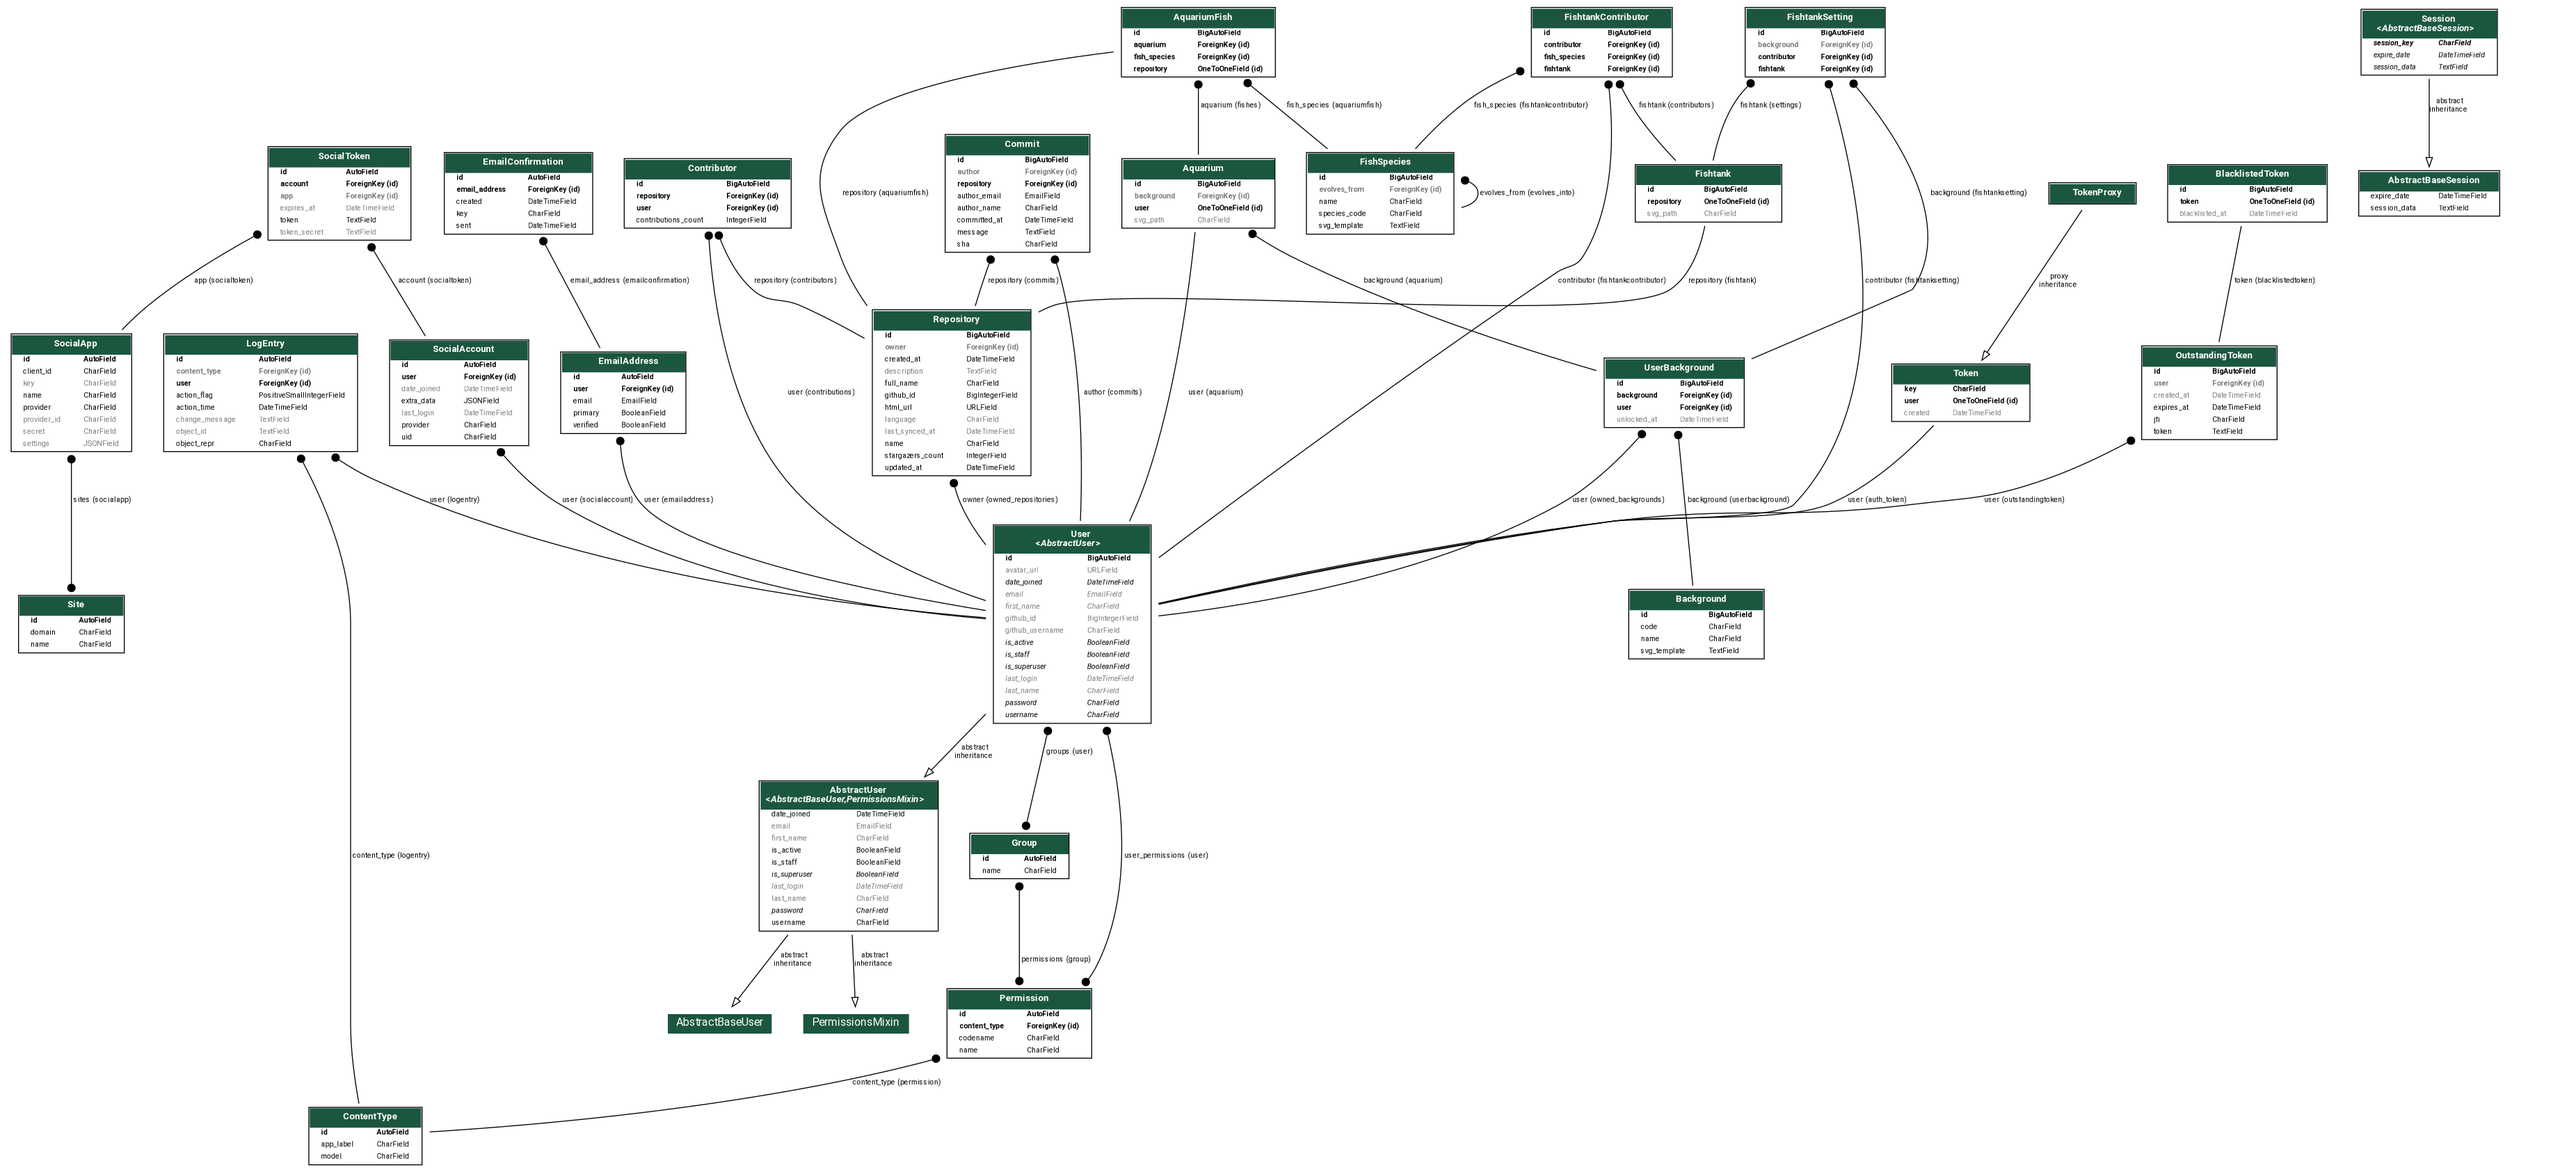
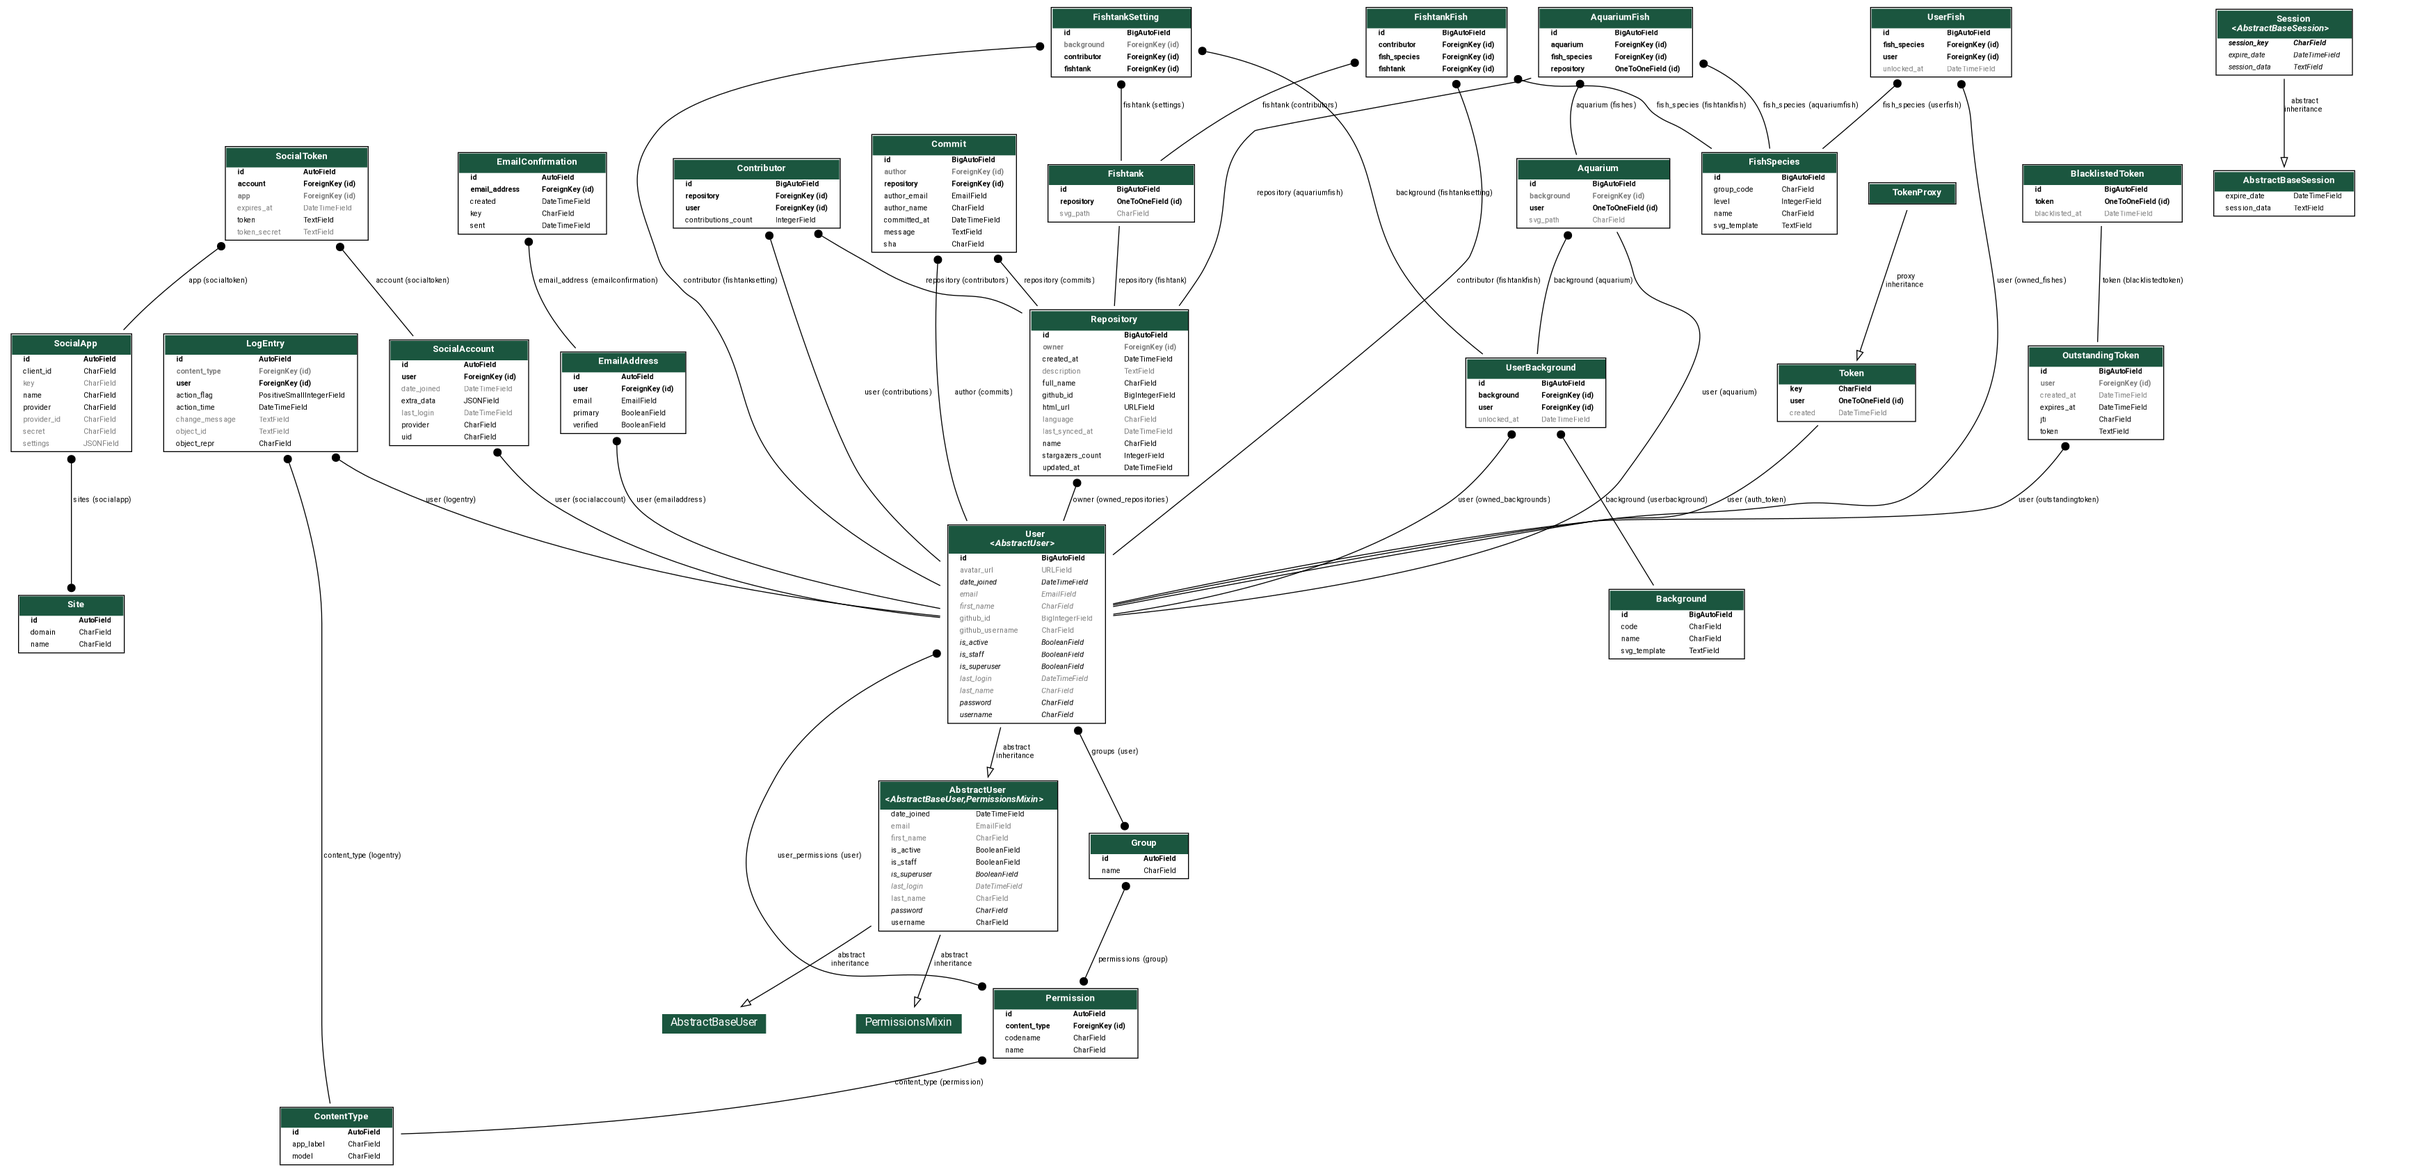
[fix] 요구사항 변경에 따라 UserFish 추가

diff --git a/apps/aquatics/migrations/0001_initial.py b/apps/aquatics/migrations/0001_initial.py
@@ -1,4 +1,4 @@
-# Generated by Django 5.2.6 on 2025-11-07 12:15
+# Generated by Django 5.2.6 on 2025-11-10 00:49
 
 import django.db.models.deletion
 from django.conf import settings
@@ -21,7 +21,6 @@ class Migration(migrations.Migration):
             fields=[
                 ('id', models.BigAutoField(auto_created=True, primary_key=True, serialize=False, verbose_name='ID')),
                 ('svg_path', models.CharField(blank=True, help_text='The relative path to the generated SVG file.', max_length=512)),
-                ('background', models.ForeignKey(blank=True, help_text='The background chosen by the user from their collection.', null=True, on_delete=django.db.models.deletion.SET_NULL, to='items.userbackground')),
                 ('user', models.OneToOneField(on_delete=django.db.models.deletion.CASCADE, related_name='aquarium', to=settings.AUTH_USER_MODEL)),
             ],
         ),
@@ -43,7 +42,24 @@ class Migration(migrations.Migration):
             ],
         ),
         migrations.CreateModel(
-            name='FishtankContributor',
+            name='UserBackground',
+            fields=[
+                ('id', models.BigAutoField(auto_created=True, primary_key=True, serialize=False, verbose_name='ID')),
+                ('unlocked_at', models.DateTimeField(auto_now_add=True, help_text='Timestamp when the user unlocked this background.')),
+                ('background', models.ForeignKey(on_delete=django.db.models.deletion.CASCADE, to='items.background')),
+                ('user', models.ForeignKey(on_delete=django.db.models.deletion.CASCADE, related_name='owned_backgrounds', to=settings.AUTH_USER_MODEL)),
+            ],
+            options={
+                'unique_together': {('user', 'background')},
+            },
+        ),
+        migrations.AddField(
+            model_name='aquarium',
+            name='background',
+            field=models.ForeignKey(blank=True, help_text='The background chosen by the user from their collection.', null=True, on_delete=django.db.models.deletion.SET_NULL, to='aquatics.userbackground'),
+        ),
+        migrations.CreateModel(
+            name='FishtankFish',
             fields=[
                 ('id', models.BigAutoField(auto_created=True, primary_key=True, serialize=False, verbose_name='ID')),
                 ('contributor', models.ForeignKey(on_delete=django.db.models.deletion.CASCADE, to=settings.AUTH_USER_MODEL)),
@@ -58,12 +74,24 @@ class Migration(migrations.Migration):
             name='FishtankSetting',
             fields=[
                 ('id', models.BigAutoField(auto_created=True, primary_key=True, serialize=False, verbose_name='ID')),
-                ('background', models.ForeignKey(blank=True, help_text='The background chosen by the contributor for this fishtank.', null=True, on_delete=django.db.models.deletion.SET_NULL, to='items.userbackground')),
                 ('contributor', models.ForeignKey(on_delete=django.db.models.deletion.CASCADE, to=settings.AUTH_USER_MODEL)),
                 ('fishtank', models.ForeignKey(on_delete=django.db.models.deletion.CASCADE, related_name='settings', to='aquatics.fishtank')),
+                ('background', models.ForeignKey(blank=True, help_text='The background chosen by the contributor for this fishtank.', null=True, on_delete=django.db.models.deletion.SET_NULL, to='aquatics.userbackground')),
             ],
             options={
                 'unique_together': {('fishtank', 'contributor')},
+            },
+        ),
+        migrations.CreateModel(
+            name='UserFish',
+            fields=[
+                ('id', models.BigAutoField(auto_created=True, primary_key=True, serialize=False, verbose_name='ID')),
+                ('unlocked_at', models.DateTimeField(auto_now_add=True, help_text='Timestamp when the user unlocked this fish species.')),
+                ('fish_species', models.ForeignKey(on_delete=django.db.models.deletion.CASCADE, to='items.fishspecies')),
+                ('user', models.ForeignKey(on_delete=django.db.models.deletion.CASCADE, related_name='owned_fishes', to=settings.AUTH_USER_MODEL)),
+            ],
+            options={
+                'unique_together': {('user', 'fish_species')},
             },
         ),
     ]

diff --git a/apps/items/migrations/0001_initial.py b/apps/items/migrations/0001_initial.py
@@ -1,7 +1,6 @@
-# Generated by Django 5.2.6 on 2025-11-07 12:15
+# Generated by Django 5.2.6 on 2025-11-10 00:49
 
-import django.db.models.deletion
-from django.conf import settings
+import django.core.validators
 from django.db import migrations, models
 
 
@@ -10,7 +9,6 @@ class Migration(migrations.Migration):
     initial = True
 
     dependencies = [
-        migrations.swappable_dependency(settings.AUTH_USER_MODEL),
     ]
 
     operations = [
@@ -28,21 +26,12 @@ class Migration(migrations.Migration):
             fields=[
                 ('id', models.BigAutoField(auto_created=True, primary_key=True, serialize=False, verbose_name='ID')),
                 ('name', models.CharField(help_text='The display name of the fish species.', max_length=100, unique=True)),
-                ('species_code', models.CharField(db_index=True, help_text="A short, unique code for programmatic access, e.g., 'C-KRAKEN'.", max_length=10, unique=True)),
+                ('group_code', models.CharField(db_index=True, default='NONE', help_text="A code for the evolution group, e.g., 'C-KRAKEN'.", max_length=10)),
+                ('level', models.IntegerField(default=0, help_text='The evolution level of the fish, from 0 to 5.', validators=[django.core.validators.MinValueValidator(0), django.core.validators.MaxValueValidator(5)])),
                 ('svg_template', models.TextField(help_text='The SVG source code template for this fish.')),
-                ('evolves_from', models.ForeignKey(blank=True, help_text='The species from which this one evolves.', null=True, on_delete=django.db.models.deletion.SET_NULL, related_name='evolves_into', to='items.fishspecies')),
-            ],
-        ),
-        migrations.CreateModel(
-            name='UserBackground',
-            fields=[
-                ('id', models.BigAutoField(auto_created=True, primary_key=True, serialize=False, verbose_name='ID')),
-                ('unlocked_at', models.DateTimeField(auto_now_add=True, help_text='Timestamp when the user unlocked this background.')),
-                ('background', models.ForeignKey(on_delete=django.db.models.deletion.CASCADE, to='items.background')),
-                ('user', models.ForeignKey(on_delete=django.db.models.deletion.CASCADE, related_name='owned_backgrounds', to=settings.AUTH_USER_MODEL)),
             ],
             options={
-                'unique_together': {('user', 'background')},
+                'unique_together': {('group_code', 'level')},
             },
         ),
     ]

diff --git a/apps/items/models.py b/apps/items/models.py
@@ -1,36 +1,36 @@
-# items/models.py
+# apps/items/models.py
 from django.db import models
-from django.conf import settings
+from django.core.validators import MinValueValidator, MaxValueValidator
 
 class FishSpecies(models.Model):
     """
     Master data for all available fish species in the system (the "Fishdex").
     """
     name = models.CharField(
-        max_length=100, 
+        max_length=100,
         unique=True,
         help_text="The display name of the fish species."
     )
-    species_code = models.CharField(
-        max_length=10, 
-        unique=True, 
+    group_code = models.CharField(
+        max_length=10,
         db_index=True,
-        help_text="A short, unique code for programmatic access, e.g., 'C-KRAKEN'."
+        help_text="A code for the evolution group, e.g., 'C-KRAKEN'.",
+        default="NONE"
     )
-    evolves_from = models.ForeignKey(
-        'self',
-        on_delete=models.SET_NULL,
-        null=True,
-        blank=True,
-        related_name='evolves_into',
-        help_text="The species from which this one evolves."
+    level = models.IntegerField(
+        default=0,
+        validators=[MinValueValidator(0), MaxValueValidator(5)],
+        help_text="The evolution level of the fish, from 0 to 5."
     )
     svg_template = models.TextField(
         help_text="The SVG source code template for this fish."
     )
 
+    class Meta:
+        unique_together = ('group_code', 'level')
+
     def __str__(self):
-        return f"[{self.species_code}] {self.name}"
+        return f"[{self.group_code}-Lvl:{self.level}] {self.name}"
 
 class Background(models.Model):
     """
@@ -53,27 +53,3 @@ class Background(models.Model):
 
     def __str__(self):
         return self.name
-
-class UserBackground(models.Model):
-    """
-    Links a User to a Background they have unlocked.
-    """
-    user = models.ForeignKey(
-        settings.AUTH_USER_MODEL, 
-        on_delete=models.CASCADE, 
-        related_name='owned_backgrounds'
-    )
-    background = models.ForeignKey(
-        Background, 
-        on_delete=models.CASCADE
-    )
-    unlocked_at = models.DateTimeField(
-        auto_now_add=True,
-        help_text="Timestamp when the user unlocked this background."
-    )
-
-    class Meta:
-        unique_together = ('user', 'background')
-
-    def __str__(self):
-        return f"{self.user.username}'s {self.background.name}"

diff --git a/apps/aquatics/models.py b/apps/aquatics/models.py
@@ -2,7 +2,58 @@
 from django.db import models
 from django.conf import settings
 from apps.repositories.models import Repository
-from apps.items.models import FishSpecies, UserBackground
+from apps.items.models import Background, FishSpecies
+
+
+class UserFish(models.Model):
+    """
+    Links a User to a FishSpecies they have unlocked.
+    """
+    user = models.ForeignKey(
+        settings.AUTH_USER_MODEL,
+        on_delete=models.CASCADE,
+        related_name='owned_fishes'
+    )
+    fish_species = models.ForeignKey(
+        FishSpecies,
+        on_delete=models.CASCADE
+    )
+    unlocked_at = models.DateTimeField(
+        auto_now_add=True,
+        help_text="Timestamp when the user unlocked this fish species."
+    )
+
+    class Meta:
+        unique_together = ('user', 'fish_species')
+
+    def __str__(self):
+        return f"{self.user.username}'s {self.fish_species.name}"
+
+
+class UserBackground(models.Model):
+    """
+    Links a User to a Background they have unlocked.
+    """
+    user = models.ForeignKey(
+        settings.AUTH_USER_MODEL, 
+        on_delete=models.CASCADE, 
+        related_name='owned_backgrounds'
+    )
+    background = models.ForeignKey(
+        Background, 
+        on_delete=models.CASCADE
+    )
+    unlocked_at = models.DateTimeField(
+        auto_now_add=True,
+        help_text="Timestamp when the user unlocked this background."
+    )
+
+    class Meta:
+        unique_together = ('user', 'background')
+
+    def __str__(self):
+        return f"{self.user.username}'s {self.background.name}"
+    
 
 class Aquarium(models.Model):
     """
@@ -72,7 +123,7 @@ class Fishtank(models.Model):
     def __str__(self):
         return f"Fishtank for {self.repository.name}"
 
-class FishtankContributor(models.Model):
+class FishtankFish(models.Model):
     """
     Represents a contributor's assigned fish within a Fishtank.
     An instance is uniquely identified by the combination of 'fishtank' and 'contributor'.
@@ -124,3 +175,4 @@ class FishtankSetting(models.Model):
 
     def __str__(self):
         return f"Setting by {self.contributor.username} for {self.fishtank}"
+    

diff --git a/GithubAquarium/webhook_views.py b/GithubAquarium/webhook_views.py
@@ -16,6 +16,8 @@ from dateutil.parser import parse as parse_datetime
 from apps.repositories.models import Repository, Commit
 from apps.users.models import User
 
+from drf_yasg.utils import swagger_auto_schema
+
 class GitHubWebhookView(APIView):
     """
     Receives and processes webhook events from GitHub.
@@ -75,10 +77,22 @@ class GitHubWebhookView(APIView):
         )
         return repository
 
+    @swagger_auto_schema(
+        summary="GitHub Webhook Handler",
+        description="""
+        Handles incoming webhook events from GitHub to keep the application's database in sync.
+
+        ### Supported Events:
+        - **star**: Triggered when a repository is starred or unstarred. Updates the `stargazers_count`.
+        - **push**: Triggered on a push to a repository. Updates repository details and records new commits.
+        - **meta**: Triggered for webhook administrative events (e.g., deletion).
+
+        The request body should be the raw JSON payload from the GitHub webhook, and the `X-Hub-Signature-256` header must be present for verification.
+        """,
+        operation_id="handle_github_webhook",
+        tags=["Webhooks"],
+    )
     def post(self, request, *args, **kwargs):
-        """
-        Handles incoming POST requests from GitHub webhooks.
-        """
         # 1. Verify the request signature for security
         signature_header = request.headers.get('X-Hub-Signature-256')
         if not signature_header:

diff --git a/readme.md b/readme.md
@@ -2,9 +2,9 @@
 curl -LsSf https://astral.sh/uv/install.sh | sh
 
 # 도움 되는 명령어
-uv run python3 manage.py graph_models -a -o erd.png
+uv run manage.py graph_models -a -o erd.png
+uv run manage.py show_urls
 uv run ruff check . --fix
-uv run python3 manage.py show_urls
 git ls-files '*.py' | xargs -I {} sh -c 'echo "\n=== {} ===" && cat {}'  > all.txt
 
 .env 예시 format
